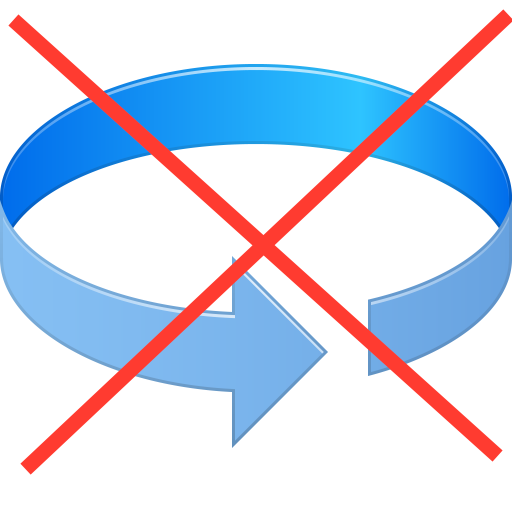
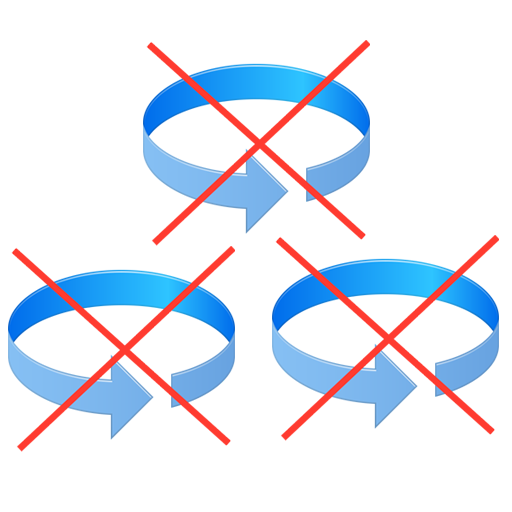
implemented deleting rotation points.

diff --git a/PathfinderPrototype/Assets/Editor/AnimationGeneratorEditor.cs b/PathfinderPrototype/Assets/Editor/AnimationGeneratorEditor.cs
@@ -14,6 +14,7 @@ public class AnimationGeneratorEditor : Editor
     Texture2D stopIcon;
     Texture2D rotationIcon;
     Texture2D clearIcon;
+    Texture2D deleteIcon;
     Texture2D eyeIcon;
 
     bool blockingMouseInputForDrawing = false;
@@ -33,6 +34,7 @@ public class AnimationGeneratorEditor : Editor
         eraserIcon = (Texture2D)AssetDatabase.LoadAssetAtPath("Assets/Editor/Images/eraser.png", typeof(Texture2D));
         rotationIcon = (Texture2D)AssetDatabase.LoadAssetAtPath("Assets/Editor/Images/rotation.png", typeof(Texture2D));
         clearIcon = (Texture2D)AssetDatabase.LoadAssetAtPath("Assets/Editor/Images/clear-rotation.png", typeof(Texture2D));
+        deleteIcon = (Texture2D)AssetDatabase.LoadAssetAtPath("Assets/Editor/Images/delete-rotation.png", typeof(Texture2D));
         eyeIcon = (Texture2D)AssetDatabase.LoadAssetAtPath("Assets/Editor/Images/eye_open.png", typeof(Texture2D));
     }
 
@@ -65,6 +67,10 @@ public class AnimationGeneratorEditor : Editor
         GUIContent rotationButtonContent = new GUIContent();
         rotationButtonContent.image = rotationIcon;
         rotationButtonContent.text = "Add Rotation Point";
+
+        GUIContent rotationButtonDelete = new GUIContent();
+        rotationButtonDelete.image = deleteIcon;
+        rotationButtonDelete.text = "Delete Rotation Point";
 
         GUIContent rotationButtonClear = new GUIContent();
         rotationButtonClear.image = clearIcon;
@@ -107,6 +113,7 @@ public class AnimationGeneratorEditor : Editor
             generator.drawingLOA = true;
             generator.addingRotationPoint = false;
             generator.editingLOA = false;
+            generator.deletingRotationPoint = false;
             blockingMouseInputForDrawing = true;
         }
         GUILayout.FlexibleSpace();
@@ -120,6 +127,7 @@ public class AnimationGeneratorEditor : Editor
             generator.editingLOA = true;
             generator.drawingLOA = false;
             generator.addingRotationPoint = false;
+            generator.deletingRotationPoint = false;
             blockingMouseInputForDrawing = true;
         }
         GUILayout.FlexibleSpace();
@@ -156,6 +164,19 @@ public class AnimationGeneratorEditor : Editor
         if (GUILayout.Button(rotationButtonContent, middleButtonStyle))
         {
             generator.addingRotationPoint = true;
+            generator.deletingRotationPoint = false;
+            generator.editingLOA = false;
+            generator.drawingLOA = false;
+        }
+        GUILayout.FlexibleSpace();
+        GUILayout.EndHorizontal();
+
+        GUILayout.BeginHorizontal();
+        GUILayout.FlexibleSpace();
+        if (GUILayout.Button(rotationButtonDelete, middleButtonStyle))
+        {
+            generator.deletingRotationPoint = true;
+            generator.addingRotationPoint = false;
             generator.editingLOA = false;
             generator.drawingLOA = false;
         }
@@ -241,6 +262,10 @@ public class AnimationGeneratorEditor : Editor
             {
                 Undo.RecordObject(generator, "Draw LOA");
             }
+            else if (generator.deletingRotationPoint)
+            {
+                generator.rotationPointToDelete = generator.getClosetestRotationPoint(point);
+            }
             Undo.FlushUndoRecordObjects();
         }
         else if (e.type == EventType.MouseDrag && e.mousePosition != lastPoint)
@@ -277,9 +302,19 @@ public class AnimationGeneratorEditor : Editor
                 }                     
                 EditorUtility.SetDirty(generator);
                 generator.GenerateAnimation();
-                Undo.FlushUndoRecordObjects();
             }
             blockingMouseInputForDrawing = false;
+            if(generator.deletingRotationPoint)
+            {
+                Vector3 point = getWorldPointFromMousePoint(e.mousePosition);
+                if(generator.rotationPointToDelete == generator.getClosetestRotationPoint(point))
+                {
+                    Undo.RecordObject(generator, "Rotate Rotation Point");
+                    generator.rotationPoints.Remove(generator.rotationPointToDelete);
+                    EditorUtility.SetDirty(generator);
+                }
+            }
+            Undo.FlushUndoRecordObjects();
         }
         if (e.type == EventType.Layout && blockingMouseInputForDrawing)
         {
@@ -287,7 +322,7 @@ public class AnimationGeneratorEditor : Editor
             HandleUtility.AddDefaultControl(GUIUtility.GetControlID(GetHashCode(), FocusType.Passive));
         }
         RotationPointHandles();
-    }
+    }    
 
     public void RotationPointHandles()
     {

diff --git a/PathfinderPrototype/Assets/Scripts/AnimationGeneratorUI/AnimationGenerator.cs b/PathfinderPrototype/Assets/Scripts/AnimationGeneratorUI/AnimationGenerator.cs
@@ -19,7 +19,10 @@ public class AnimationGenerator : MonoBehaviour
     public bool drawingLOA = false;
     public bool editingLOA = false;
     public bool addingRotationPoint = false;
+    public bool deletingRotationPoint = false;
     public int framesOfAnimation = 100;
+
+    public RotationPoint rotationPointToDelete;
 
 
     private Quaternion handleRotation = Quaternion.identity;
@@ -428,5 +431,24 @@ public class AnimationGenerator : MonoBehaviour
     public void AddEditPoint(Vector3 point)
     {
         editPoints.Add(point);
+    }
+
+    public RotationPoint getClosetestRotationPoint(Vector3 point)
+    {
+        RotationPoint closetRotPoint = rotationPoints[0];
+        float closetsDistance = Vector3.Distance(point,closetRotPoint.position);
+        if (rotationPoints != null)
+        {
+            foreach (RotationPoint rotPoint in rotationPoints)
+            {
+                float dist = Vector3.Distance(rotPoint.position, point);
+                if(dist < closetsDistance)
+                {
+                    closetsDistance = dist;
+                    closetRotPoint = rotPoint;
+                }
+            }
+        }
+        return closetRotPoint;
     }
 }
